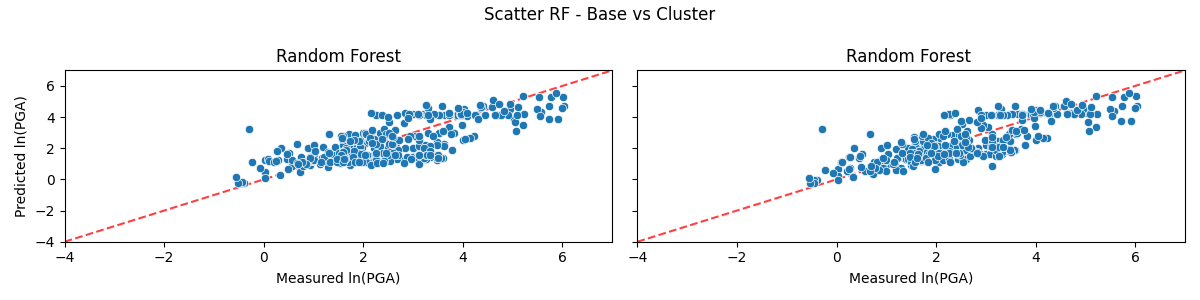
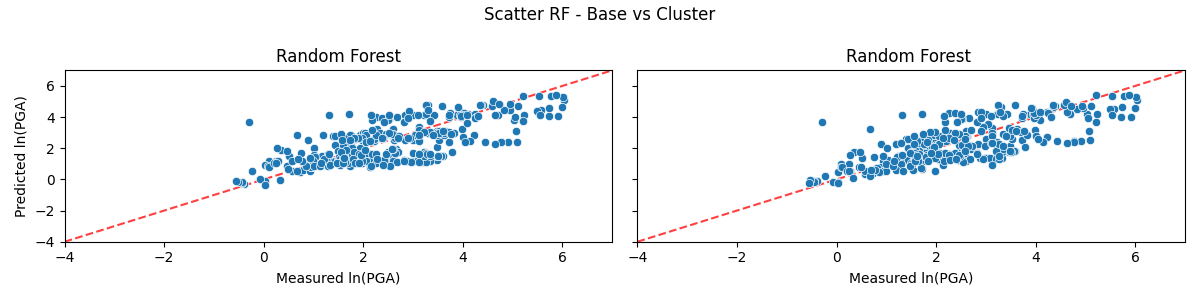
feat: enable cluster-specific tuning and update model training process; enhance preprocessing and evaluation pipelines

Changed region(s): [[0.6475, 0.3, 0.9558, 0.63], [0.185, 0.3, 0.4933, 0.63], [0.185, 0.39, 0.2158, 0.45]]

diff --git a/main.py b/main.py
@@ -147,7 +147,7 @@ def main():
     from evaluation import model_experiment, save_pipelines, save_experiments_results
     import os
     import json
-    from sklearn.model_selection import train_test_split
+    from sklearn.model_selection import GroupShuffleSplit
     from tensorflow.keras.callbacks import EarlyStopping
     from sklearn.metrics import root_mean_squared_error, r2_score
     from scipy import stats
@@ -168,9 +168,13 @@ def main():
     def train_evaluate_dnn(df_train, df_test, preprocessor, model_name, dnn_params):
         print(f"Executando experimento: {model_name}...")
         
-        X_train_dnn, X_valid_dnn, y_train_dnn, y_valid_dnn = train_test_split(
-            df_train, df_train['peak_ground_acceleration'], test_size=0.2, random_state=config.RANDOM_STATE
-        )
+        gss = GroupShuffleSplit(n_splits=1, test_size=0.2, random_state=config.RANDOM_STATE)
+        train_idx, valid_idx = next(gss.split(df_train, df_train['peak_ground_acceleration'], groups=df_train['earthquake_id']))
+        
+        X_train_dnn = df_train.iloc[train_idx]
+        X_valid_dnn = df_train.iloc[valid_idx]
+        y_train_dnn = df_train['peak_ground_acceleration'].iloc[train_idx]
+        y_valid_dnn = df_train['peak_ground_acceleration'].iloc[valid_idx]
         
         tf_x_train = preprocessor.fit_transform(X_train_dnn)
         tf_x_valid = preprocessor.transform(X_valid_dnn)
@@ -260,6 +264,19 @@ def main():
         print(f"      - Cluster: {cluster_col}")
         preprocessor_cluster = get_preprocessor(num_attributes=config.MODEL_NUM_FEATURES, cat_attributes=[cluster_col])
         
+        if config.USE_CLUSTER_SPECIFIC_TUNING:
+            rf_params_cluster = get_tuned_params(f"rf_{cluster_col}")
+            xgb_params_cluster = get_tuned_params(f"xgb_{cluster_col}")
+            dnn_params_cluster = get_tuned_params(f"dnn_{cluster_col}")
+            
+            if not rf_params_cluster: rf_params_cluster = rf_params
+            if not xgb_params_cluster: xgb_params_cluster = xgb_params
+            if not dnn_params_cluster: dnn_params_cluster = dnn_params
+        else:
+            rf_params_cluster = rf_params
+            xgb_params_cluster = xgb_params
+            dnn_params_cluster = dnn_params
+
         lr_cluster = build_linear_regression(preprocessor_cluster)
         model_experiment(df_train_clean, df_test, lr_cluster, experiments, f'Linear Regression with PSA {cluster_col}', target_col='peak_ground_acceleration')
         trained_pipelines[f'Linear Regression with PSA {cluster_col}'] = lr_cluster
@@ -272,16 +289,16 @@ def main():
         model_experiment(df_train_clean, df_test, elastic_cluster, experiments, f'Polynomial ElasticNet with PSA {cluster_col}', target_col='peak_ground_acceleration')
         trained_pipelines[f'Polynomial ElasticNet with PSA {cluster_col}'] = elastic_cluster
 
-        rf_cluster = build_random_forest(preprocessor_cluster, **rf_params)
+        rf_cluster = build_random_forest(preprocessor_cluster, **rf_params_cluster)
         model_experiment(df_train_clean, df_test, rf_cluster, experiments, f'Random Forest with PSA {cluster_col}', target_col='peak_ground_acceleration')
         trained_pipelines[f'Random Forest with PSA {cluster_col}'] = rf_cluster
         
-        xgb_cluster = build_xgboost(preprocessor_cluster, **xgb_params)
+        xgb_cluster = build_xgboost(preprocessor_cluster, **xgb_params_cluster)
         model_experiment(df_train_clean, df_test, xgb_cluster, experiments, f'XGBoost with PSA {cluster_col}', target_col='peak_ground_acceleration')
         trained_pipelines[f'XGBoost with PSA {cluster_col}'] = xgb_cluster
         
         # Deep Neural Network
-        train_evaluate_dnn(df_train_clean, df_test, preprocessor_cluster, f'Deep Neural Network with PSA {cluster_col}', dnn_params)
+        train_evaluate_dnn(df_train_clean, df_test, preprocessor_cluster, f'Deep Neural Network with PSA {cluster_col}', dnn_params_cluster)
 
     print("\n8. Salvando Resultados e Pipelines...")
     save_experiments_results(experiments, os.path.join(config.RESULTS_DIR, 'experiments_results.csv'))

diff --git a/modeling.py b/modeling.py
@@ -48,11 +48,23 @@ def build_linear_regression(preprocessor: ColumnTransformer) -> Pipeline:
         ))
     ])
 
-def build_polynomial_regression(preprocessor: ColumnTransformer, degree: int = 2, include_bias: bool = True) -> Pipeline:
+def build_polynomial_regression(preprocessor: ColumnTransformer, degree: int = 2, include_bias: bool = False) -> Pipeline:
     """Constrói a pipeline para Regressão Polinomial."""
+    new_transformers = []
+    for name, transformer, columns in preprocessor.transformers:
+        if name == 'num':
+            # Copia o pipeline numérico para adicionar as features polinomiais e re-escalonar (corrige Problema 1 e 2)
+            new_steps = transformer.steps.copy()
+            new_steps.append(('poly', PolynomialFeatures(degree=degree, include_bias=include_bias)))
+            new_steps.append(('scale_poly', StandardScaler()))
+            new_transformers.append((name, Pipeline(new_steps), columns))
+        else:
+            new_transformers.append((name, transformer, columns))
+            
+    prep_poly = ColumnTransformer(new_transformers, remainder=preprocessor.remainder)
+
     return Pipeline([
-        ('preprocessor', preprocessor),
-        ('poly', PolynomialFeatures(degree=degree, include_bias=include_bias)),
+        ('preprocessor', prep_poly),
         ('model', TransformedTargetRegressor(
             regressor=LinearRegression(),
             func=np.log,
@@ -61,11 +73,22 @@ def build_polynomial_regression(preprocessor: ColumnTransformer, degree: int = 2
     ])
 
 def build_elasticnet(preprocessor: ColumnTransformer, alpha: float = 0.1, l1_ratio: float = 0.5, 
-                     max_iter: int = 100000, degree: int = 2, include_bias: bool = True) -> Pipeline:
+                     max_iter: int = 100000, degree: int = 2, include_bias: bool = False) -> Pipeline:
     """Constrói a pipeline para Regressão Polinomial com regularização ElasticNet."""
+    new_transformers = []
+    for name, transformer, columns in preprocessor.transformers:
+        if name == 'num':
+            new_steps = transformer.steps.copy()
+            new_steps.append(('poly', PolynomialFeatures(degree=degree, include_bias=include_bias)))
+            new_steps.append(('scale_poly', StandardScaler()))
+            new_transformers.append((name, Pipeline(new_steps), columns))
+        else:
+            new_transformers.append((name, transformer, columns))
+            
+    prep_poly = ColumnTransformer(new_transformers, remainder=preprocessor.remainder)
+
     return Pipeline([
-        ('preprocessor', preprocessor),
-        ('poly', PolynomialFeatures(degree=degree, include_bias=include_bias)),
+        ('preprocessor', prep_poly),
         ('model', TransformedTargetRegressor(
             regressor=ElasticNet(alpha=alpha, l1_ratio=l1_ratio, max_iter=max_iter, random_state=42),
             func=np.log,

diff --git a/config.py b/config.py
@@ -5,7 +5,7 @@ RAW_EARTHQUAKES_PSA_PATH = 'earthquakes_psa_earthquakeid.csv'
 # Flags de controle de execução
 LOAD_TRAINED_MODELS = False
 HIPERPARAMETERS_TUNING = False
-USE_CLUSTER_SPECIFIC_TUNING = False
+USE_CLUSTER_SPECIFIC_TUNING = True
 
 # Configurações gerais
 RANDOM_STATE = 42

diff --git a/especificacao_arquitetura_pipeline.md b/especificacao_arquitetura_pipeline.md
@@ -1,0 +1,48 @@
+# Especificação de Arquitetura e Pipeline de Dados
+
+## 1. Visão Geral do Projeto
+**Objetivo:** Prever a Aceleração de Pico no Solo (PGA - *Peak Ground Acceleration*) utilizando algoritmos de Machine Learning. O projeto testa a hipótese principal de que a introdução de atributos gerados por clusterização de perfis de Aceleração Pseudo-Espectral (PSA) reduz significativamente o erro das predições, suprindo a ausência de dados geológicos detalhados do solo.
+
+## 2. Fontes de Dados
+* **PGA Data (`earthquakes_pga.csv`)**: Contém informações sobre o terremoto, estações sísmicas, distâncias e o registro do PGA.
+* **PSA Data (`earthquakes_psa_earthquakeid.csv`)**: Contém registros espectrais nos eixos Vertical (V), Leste-Oeste (EW) e Norte-Sul (NS).
+* **Chave de Cruzamento**: Os datasets são cruzados usando a chave composta `station_earthquakeid` (Estação + ID do Terremoto gerado por Data/Hora).
+
+## 3. Pipeline de Processamento (Orquestrado por `main.py`)
+O fluxo de execução segue etapas estritas para garantir robustez e evitar vazamento de dados (*Data Leakage*):
+
+### 3.1. Feature Engineering
+* Cálculo do logaritmo do ângulo de incidência (`log_incidence_angle`).
+* Categorização (Binning) de variáveis contínuas (Magnitude, Distância Epicentral, Profundidade, PGA). *(Nota: Atualmente geradas, mas não passadas aos modelos Scikit-Learn).*
+
+### 3.2. Separação Treino / Teste (Data Split)
+* **Proporção**: 80% Treino / 20% Teste.
+* **Agrupamento**: A divisão é agrupada pelo `earthquake_id`.
+* **Motivo**: Prevenir que registros do mesmo terremoto, captados por estações diferentes, existam simultaneamente no Treino e no Teste, o que causaria um viés otimista (*data leakage* espacial e temporal).
+
+### 3.3. Tratamento de Outliers
+* **Algoritmo**: Local Outlier Factor (LOF) com 200 vizinhos (`n_neighbors=200`) e contaminação de 0.001.
+* **Aplicação**: Aplicado **exclusivamente no conjunto de treinamento**. Outliers não são removidos do teste para garantir que a avaliação reflita a realidade completa do domínio.
+
+### 3.4. Processamento de Sinais PSA e Clusterização
+Os sinais de PSA são divididos garantindo que o Teste não influencie o Treino:
+1. **Extração Espectral**: São calculadas médias para os sinais de cada estação nas direções V, EW e NS.
+2. **Geração de Componentes**:
+   * `spectral_coefs`: Coeficientes espectrais (EW/V e NS/V).
+   * `spectral_means`: Médias espectrais considerando os 3 eixos.
+   * `spectral_horiz_means`: Médias horizontais (EW e NS).
+   * `spectral_vert_means`: Médias apenas do eixo vertical (V).
+3. **Clusterização (KMeans)**: 
+   * Aplicada usando `MinMaxScaler` prévio.
+   * `K` (Número de Clusters) pré-definido pelo Método do Cotovelo / Silhouette:
+     * `spectral_coefs`: K = 5
+     * `spectral_means`: K = 4
+     * `spectral_horiz_means`: K = 4
+     * `spectral_vert_means`: K = 3
+   * Modelos são "fitados" no Treino e as etiquetas preditas no Teste via `.predict()`.
+
+## 4. Avaliação e Resultados
+* Os pipelines são salvos localmente (`.joblib` para Scikit-Learn / XGBoost, `.keras` para modelos profundos).
+* O sistema gera gráficos de dispersão (Medido vs. Previsto) em escala logarítmica.
+* Análises de erro absoluto/percentual comparam diretamente os modelos **Base** (Sem PSA) contra os modelos **Com PSA**.
+* **Reprodutibilidade**: Seeds fixadas globalmente (`config.RANDOM_STATE = 42`) para bibliotecas padrões, Numpy e TensorFlow.

diff --git a/especificacao_modelagem.md b/especificacao_modelagem.md
@@ -1,0 +1,57 @@
+# Especificação de Modelagem (Machine Learning)
+
+## 1. Definição do Problema e Variáveis
+* **Tipo de Tarefa**: Regressão.
+* **Variável Alvo (Target)**: `peak_ground_acceleration` (PGA).
+  * **Transformação do Alvo**: Todos os algoritmos usam `TransformedTargetRegressor` aplicando uma transformação Logarítmica (`np.log`) na entrada do treino e Exponencial (`np.exp`) na saída das predições.
+
+### 1.1. Features Utilizadas (Input)
+**Numéricas (Base):**
+* `magnitude`
+* `calculated_epicentral_distance`
+* `depth`
+* `log_incidence_angle`
+* `calculated_hypocentral_distance`
+* `source_off_shore`
+
+**Categóricas (Features de Estudo / Cluster PSA):**
+* Avaliadas individualmente em pipelines separados:
+  * `clusters_spectral_coefs`
+  * `clusters_spectral_means`
+  * `clusters_spectral_horiz_means`
+  * `clusters_spectral_vert_means`
+
+## 2. Pipeline de Pré-processamento
+* **Numéricas**: Padronização através do `StandardScaler`.
+* **Categóricas**: Codificação com `OneHotEncoder(handle_unknown="ignore")`.
+* *Nota: Regressão Polinomial e ElasticNet aplicam um passo extra de `PolynomialFeatures(degree=2)` seguido de novo `StandardScaler` apenas na via numérica.*
+
+## 3. Algoritmos Avaliados
+1. **Linear Regression**
+2. **Polynomial Regression** (Regressão Linear com expansão polinomial de grau 2)
+3. **ElasticNet** (Regressão Polinomial + Regularização L1/L2)
+4. **Random Forest Regressor**
+5. **XGBoost Regressor** (Métrica interna: `reg:squarederror`)
+6. **Deep Neural Network (DNN)**: Keras Sequential (Camadas Densas + BatchNormalization + Dropout opcional, ativador ReLU ou Swish).
+
+## 4. Otimização de Hiperparâmetros (Tuning)
+O ajuste de hiperparâmetros foi implementado de forma a proteger contra vazamento de dados, respeitando o agrupamento temporal/espacial dos terremotos.
+
+### 4.1. Estratégia de Validação
+* **XGBoost e Random Forest**: Optuna aliado a `GroupKFold(n_splits=5)`. O `groups` é definido pela coluna `earthquake_id`.
+* **Deep Neural Network**: *Keras Tuner* (`Hyperband`) utilizando validação fixa (*Holdout*) a partir de um split limpo através de `GroupShuffleSplit`.
+* **Métrica Objetivo**: Maximização do RMSE negativo (Scikit-Learn/Optuna) ou minimização do `val_root_mean_squared_error` (Keras Tuner).
+
+### 4.2. Detalhes de Busca e *Early Stopping*
+* **XGBoost**:
+  * Utiliza Pruning (`MedianPruner`) no Optuna para interromper *trials* ruins baseando-se no desempenho em cada dobra (*fold*).
+  * Avaliação do RMSE é feita no espaço original da variável, revertendo a escala logarítmica com `np.exp` no momento do cálculo do erro do Optuna.
+* **DNN**:
+  * Callbacks: `EarlyStopping` monitorando o RMSE de validação com paciência de 10 épocas, restaurando os melhores pesos.
+  * Otimizadores testados: Adam, AdamW, Nesterov, SGD.
+
+## 5. Avaliação do Modelo (Evaluation)
+Métricas acompanhadas para o conjunto de testes:
+* **RMSE (Root Mean Squared Error)** (Principal métrica de ranqueamento da tabela de resultados).
+* **R² (Coeficiente de Determinação)**.
+* **Intervalo de Confiança (95%)**: Calculado estatisticamente (SciPy) usando a variância dos erros quadráticos das predições do conjunto de teste contra os valores reais.
